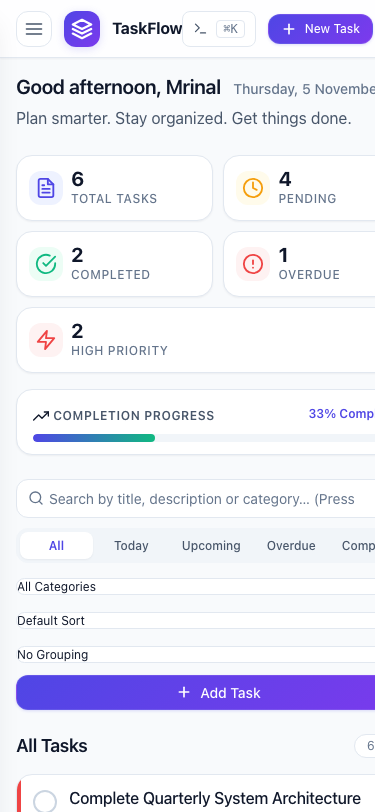
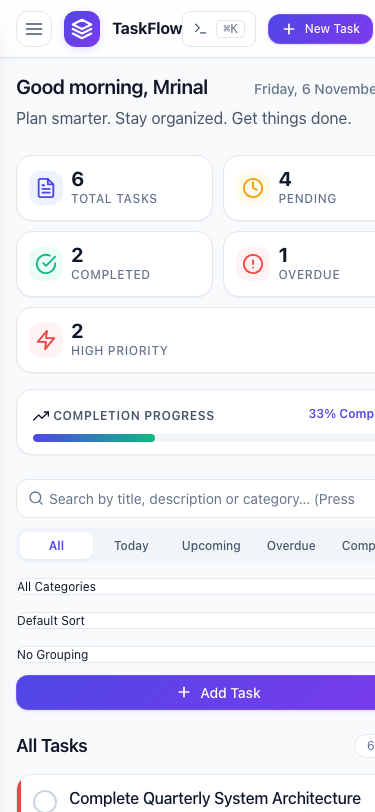
fix(screenshots): regenerate genuine application UI screenshots and fix static server 404s

Changed region(s): [[0.176, 0.0924, 0.5867, 0.1232], [0.616, 0.0924, 0.792, 0.1232]]

diff --git a/scripts/capture-screenshots.js b/scripts/capture-screenshots.js
@@ -12,12 +12,15 @@ import http from 'node:http';
 import fs from 'node:fs';
 import path from 'node:path';
 import { fileURLToPath } from 'node:url';
-import { spawnSync } from 'node:child_process';
+import { spawn } from 'node:child_process';
 
 const __filename = fileURLToPath(import.meta.url);
 const __dirname = path.dirname(__filename);
 const ROOT_DIR = path.resolve(__dirname, '..');
 const PORT = 8089;
+const CDP_PORT = 9226;
+const CHROME_PATH = '/Applications/Google Chrome.app/Contents/MacOS/Google Chrome';
+const screenshotsDir = path.join(ROOT_DIR, 'assets', 'screenshots');
 
 const MIME_TYPES = {
   '.html': 'text/html; charset=utf-8',
@@ -44,7 +47,10 @@ function createServer() {
       const stats = fs.statSync(filePath);
       if (stats.isFile()) {
         const ext = path.extname(filePath).toLowerCase();
-        res.writeHead(200, { 'Content-Type': MIME_TYPES[ext] || 'application/octet-stream' });
+        res.writeHead(200, {
+          'Content-Type': MIME_TYPES[ext] || 'application/octet-stream',
+          'Access-Control-Allow-Origin': '*',
+        });
         fs.createReadStream(filePath).pipe(res);
         return;
       }
@@ -59,45 +65,110 @@ function createServer() {
   return server;
 }
 
-const CHROME_PATH = '/Applications/Google Chrome.app/Contents/MacOS/Google Chrome';
-const screenshotsDir = path.join(ROOT_DIR, 'assets', 'screenshots');
+class CDPClient {
+  constructor(wsUrl) {
+    this.wsUrl = wsUrl;
+    this.ws = null;
+    this.msgId = 0;
+    this.pending = new Map();
+  }
+
+  async connect() {
+    return new Promise((resolve, reject) => {
+      this.ws = new WebSocket(this.wsUrl);
+      this.ws.onopen = () => resolve();
+      this.ws.onerror = (err) => reject(err);
+      this.ws.onmessage = (event) => {
+        const data = JSON.parse(event.data);
+        if (data.id && this.pending.has(data.id)) {
+          const { resolve: res, reject: rej } = this.pending.get(data.id);
+          this.pending.delete(data.id);
+          if (data.error) rej(data.error);
+          else res(data.result);
+        }
+      };
+    });
+  }
+
+  send(method, params = {}) {
+    return new Promise((resolve, reject) => {
+      const id = ++this.msgId;
+      this.pending.set(id, { resolve, reject });
+      this.ws.send(JSON.stringify({ id, method, params }));
+    });
+  }
+
+  async eval(expression) {
+    const res = await this.send('Runtime.evaluate', {
+      expression,
+      awaitPromise: true,
+      returnByValue: true,
+    });
+    if (res.exceptionDetails) {
+      throw new Error(res.exceptionDetails.exception?.description || res.exceptionDetails.text);
+    }
+    return res.result?.value;
+  }
+
+  close() {
+    if (this.ws) {
+      try { this.ws.close(); } catch (_e) {}
+    }
+  }
+}
+
+async function sleep(ms) {
+  return new Promise((resolve) => setTimeout(resolve, ms));
+}
 
 const SCREENSHOT_TARGETS = [
   {
     name: 'desktop-light.png',
-    url: `http://localhost:${PORT}/?seed=1&theme=light`,
+    url: `http://127.0.0.1:${PORT}/?seed=1&theme=light`,
     width: 1440,
     height: 900,
+    mobile: false,
+    waitFor: () => 'document.querySelectorAll(".task-card").length >= 6',
   },
   {
     name: 'desktop-dark.png',
-    url: `http://localhost:${PORT}/?seed=1&theme=dark`,
+    url: `http://127.0.0.1:${PORT}/?seed=1&theme=dark`,
     width: 1440,
     height: 900,
+    mobile: false,
+    waitFor: () => 'document.querySelectorAll(".task-card").length >= 6',
   },
   {
     name: 'mobile-light.png',
-    url: `http://localhost:${PORT}/?seed=1&theme=light`,
+    url: `http://127.0.0.1:${PORT}/?seed=1&theme=light`,
     width: 375,
     height: 812,
+    mobile: true,
+    waitFor: () => 'document.querySelectorAll(".task-card").length >= 6',
   },
   {
     name: 'mobile-dark.png',
-    url: `http://localhost:${PORT}/?seed=1&theme=dark`,
+    url: `http://127.0.0.1:${PORT}/?seed=1&theme=dark`,
     width: 375,
     height: 812,
+    mobile: true,
+    waitFor: () => 'document.querySelectorAll(".task-card").length >= 6',
   },
   {
     name: 'task-modal.png',
-    url: `http://localhost:${PORT}/?seed=1&theme=light&modal=add`,
+    url: `http://127.0.0.1:${PORT}/?seed=1&theme=light&modal=add`,
     width: 1440,
     height: 900,
+    mobile: false,
+    waitFor: () => 'document.getElementById("modal-overlay")?.classList.contains("is-open")',
   },
   {
     name: 'settings-modal.png',
-    url: `http://localhost:${PORT}/?seed=1&theme=dark&modal=settings`,
+    url: `http://127.0.0.1:${PORT}/?seed=1&theme=dark&modal=settings`,
     width: 1440,
     height: 900,
+    mobile: false,
+    waitFor: () => 'document.getElementById("settings-overlay")?.classList.contains("is-open")',
   },
 ];
 
@@ -112,36 +183,101 @@ async function main() {
   }
 
   const server = createServer();
-  await new Promise((resolve) => server.listen(PORT, resolve));
-  console.log(`Local test server running on http://localhost:${PORT}`);
+  await new Promise((resolve) => server.listen(PORT, '127.0.0.1', resolve));
+  console.log(`Local test server running on http://127.0.0.1:${PORT}`);
+
+  const userDataDir = path.join('/tmp', `tf-ss-ud-${Date.now()}`);
+  const chrome = spawn(CHROME_PATH, [
+    '--headless=new',
+    `--remote-debugging-port=${CDP_PORT}`,
+    '--no-sandbox',
+    '--disable-setuid-sandbox',
+    '--disable-gpu',
+    '--disable-extensions',
+    '--no-first-run',
+    `--user-data-dir=${userDataDir}`,
+    '--hide-scrollbars',
+    '--window-size=1440,900',
+    'about:blank',
+  ]);
+
+  let cdp = null;
 
   try {
+    let pageTarget = null;
+    for (let i = 0; i < 40; i++) {
+      await sleep(150);
+      try {
+        const res = await fetch(`http://127.0.0.1:${CDP_PORT}/json/list`);
+        const list = await res.json();
+        const found = list.find((t) => t.type === 'page' && t.webSocketDebuggerUrl);
+        if (found) {
+          pageTarget = found;
+          break;
+        }
+      } catch (_e) {}
+    }
+
+    if (!pageTarget) {
+      throw new Error('Failed to find Chrome CDP page target');
+    }
+
+    cdp = new CDPClient(pageTarget.webSocketDebuggerUrl);
+    await cdp.connect();
+    await cdp.send('Page.enable');
+    await cdp.send('Runtime.enable');
+
     for (const target of SCREENSHOT_TARGETS) {
       const outputPath = path.join(screenshotsDir, target.name);
       console.log(`Capturing ${target.name} (${target.width}x${target.height})...`);
 
-      const args = [
-        '--headless',
-        '--disable-gpu',
-        '--hide-scrollbars',
-        `--window-size=${target.width},${target.height}`,
-        `--screenshot=${outputPath}`,
-        target.url,
-      ];
+      await cdp.send('Emulation.setDeviceMetricsOverride', {
+        width: target.width,
+        height: target.height,
+        deviceScaleFactor: 1,
+        mobile: target.mobile,
+      });
 
-      const res = spawnSync(CHROME_PATH, args, { encoding: 'utf-8', timeout: 60000 });
-      if (res.error) {
-        console.error(`Error capturing ${target.name}:`, res.error);
-      } else if (fs.existsSync(outputPath)) {
-        const bytes = fs.statSync(outputPath).size;
-        console.log(`✅ Saved ${target.name} (${(bytes / 1024).toFixed(1)} KB)`);
-      } else {
-        console.error(`Failed to produce ${target.name}`, res.stderr || res.stdout);
+      await cdp.send('Page.navigate', { url: target.url });
+
+      // Poll for readiness
+      const startTime = Date.now();
+      let ready = false;
+      while (Date.now() - startTime < 6000) {
+        await sleep(150);
+        try {
+          const isReady = await cdp.eval(target.waitFor());
+          if (isReady) {
+            ready = true;
+            break;
+          }
+        } catch (_e) {}
       }
+
+      if (!ready) {
+        console.warn(`Warning: readiness condition not met for ${target.name}, proceeding with capture...`);
+      }
+
+      // Small settle delay for CSS transitions/animations
+      await sleep(300);
+
+      const shot = await cdp.send('Page.captureScreenshot', {
+        format: 'png',
+        captureBeyondViewport: false,
+      });
+
+      const buffer = Buffer.from(shot.data, 'base64');
+      fs.writeFileSync(outputPath, buffer);
+      console.log(`✅ Saved ${target.name} (${(buffer.length / 1024).toFixed(1)} KB)`);
     }
   } finally {
+    if (cdp) cdp.close();
+    chrome.kill('SIGKILL');
     server.close();
-    console.log('Test server closed.');
+    try {
+      fs.rmSync(userDataDir, { recursive: true, force: true });
+    } catch (_e) {}
+    console.log('Capture complete. Test server closed.');
   }
 }
 

diff --git a/css/styles.css b/css/styles.css
@@ -21,6 +21,7 @@ html {
   font-size: 16px;
   scroll-behavior: smooth;
   -webkit-text-size-adjust: 100%;
+  background-color: var(--color-bg);
 }
 
 body {
@@ -122,6 +123,7 @@ a:hover {
    ============================================================ */
 .app-layout {
   display: grid;
+  background-color: var(--color-bg);
   grid-template-areas:
     "header header"
     "sidebar main";
@@ -395,6 +397,7 @@ a:hover {
    ============================================================ */
 .app-main {
   grid-area: main;
+  background-color: var(--color-bg);
   padding: var(--space-8);
   overflow-y: auto;
   max-width: 100%;
